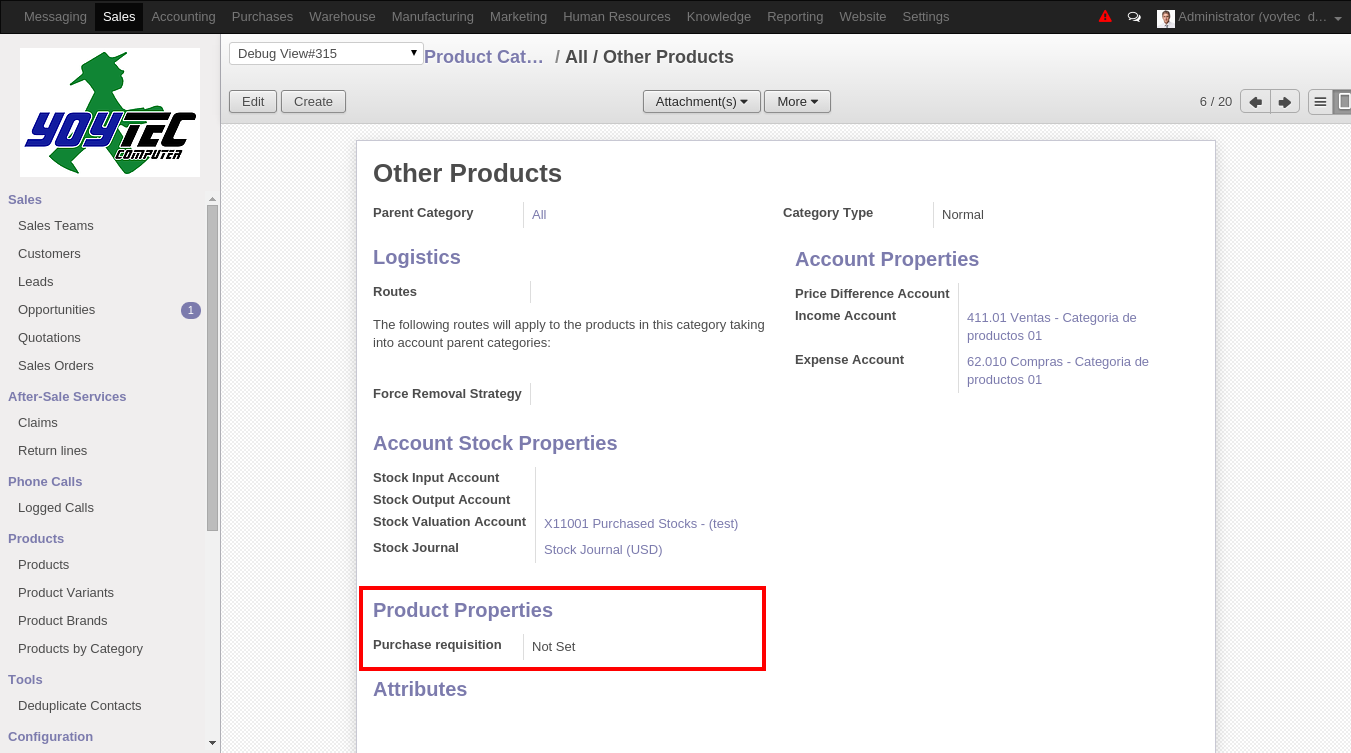
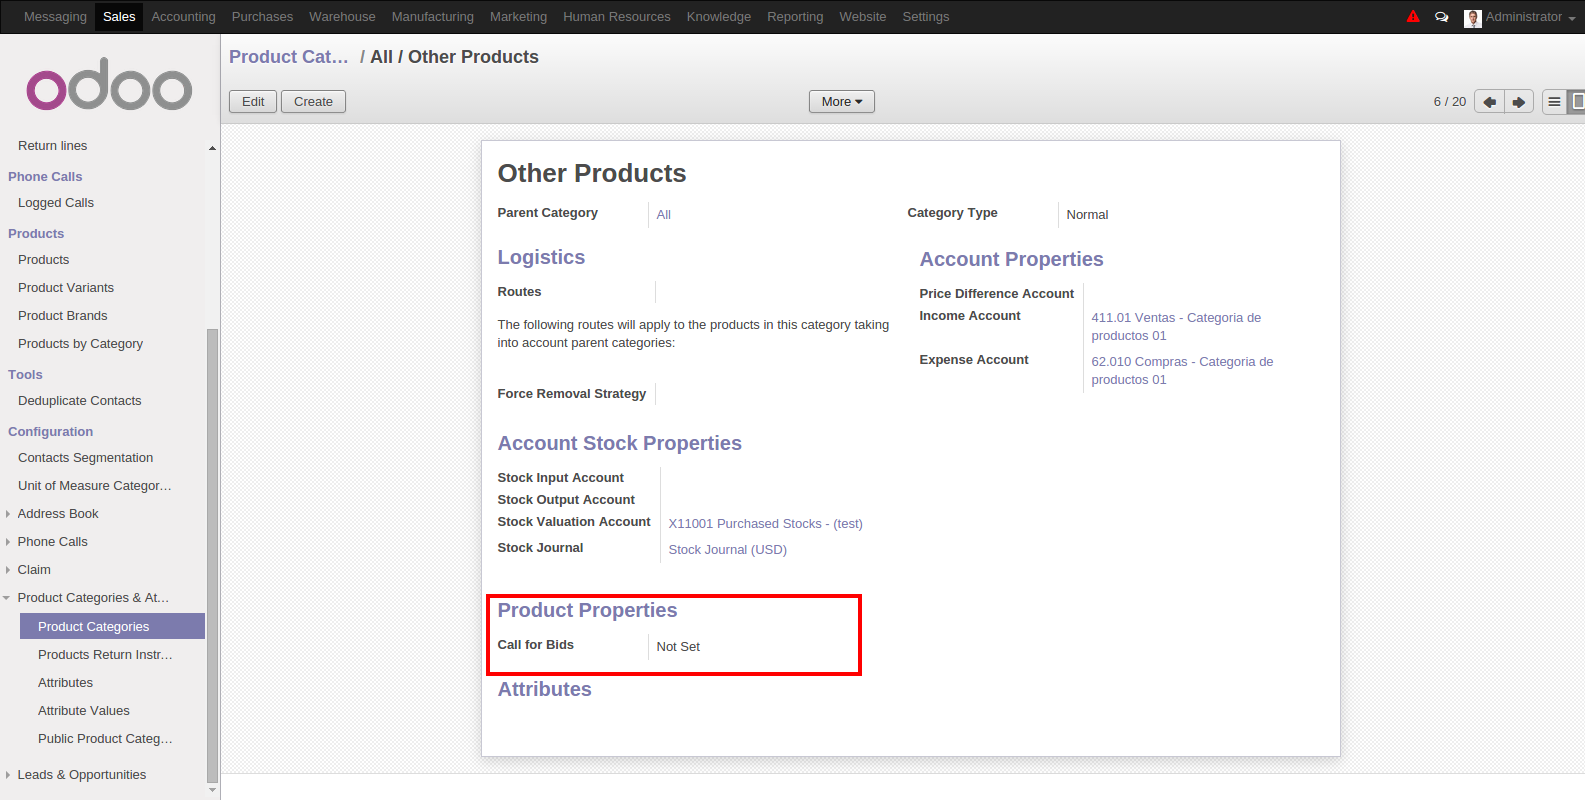
[IMP][product_properties_by_category]

Changed region(s): [[0.0, 0.0, 1.0, 1.0], [0.2487, 0.4887, 0.8394, 0.9774], [0.8083, 0.0, 0.9948, 0.0611]]

diff --git a/product_properties_by_category/tests/test_product_category.py b/product_properties_by_category/tests/test_product_category.py
@@ -33,21 +33,12 @@ class TestProductCategoryProperties(common.SingleTransactionCase):
         self.product = self.browse_ref(
             'product.product_product_35_product_template')
 
-    # Simulate the onchange
-    def check_parents_prch_rqs(self, categ_id):
-        if categ_id:
-            if categ_id.purchase_requisition == '-1':
-                return int(self.check_parents_prch_rqs(categ_id.parent_id))
-            else:
-                return int(categ_id.purchase_requisition)
-        else:
-            return False
-
-    def update_product(self, product, category):
-        result = bool(self.check_parents_prch_rqs(category))
+    def update_product(self, product):
+        result = product.get_purchase_requisition_default()
         product.write({
-            'categ_id': category.id,
-            'purchase_requisition': result, })
+            'categ_id': product.categ_id.id,
+            'purchase_requisition': result[0],
+        })
 
     def test_category_prch_rqst(self):
         """
@@ -56,16 +47,12 @@ class TestProductCategoryProperties(common.SingleTransactionCase):
         """
         # Set "Call for Bids" False to the product.
         self.product.purchase_requisition = False
-        # Category All / Saleable
-        category_b = self.product_category.parent_id
-        # Category All
-        category_a = category_b.parent_id
         # Add a default value "Set True" for "Call for Bids"
         # of product category first in line (Category A).
-        category_a.purchase_requisition = '1'
+        self.product_category.purchase_requisition = '1'
         # Simulate the onchange and check that the field
         # in the product change for False to True.
-        self.update_product(self.product, category_b)
+        self.update_product(self.product)
         self.assertTrue(self.product.purchase_requisition)
 
     def test_no_restriction(self):
@@ -74,12 +61,8 @@ class TestProductCategoryProperties(common.SingleTransactionCase):
         The user can manually change a value inherit form
         the product.category as is needed.
         """
-        category_b = self.product_category.parent_id
-        # Category All
-        category_a = category_b.parent_id
         # Taking the same product in Test 01 change the
-        # "Call for Bids" in product to False and check that
-        # "Call for Bids" in product most be True
+        # "Call for Bids" in product to False
         self.assertTrue(self.product.purchase_requisition)
         # Set "Call for Bids" False to the product.
         self.product.purchase_requisition = False
@@ -88,17 +71,15 @@ class TestProductCategoryProperties(common.SingleTransactionCase):
         # product.category A "call for bids" to check that they are different.
         self.assertNotEqual(
             self.product.purchase_requisition,
-            bool(int(category_a.purchase_requisition)))
+            bool(int(self.product_category.purchase_requisition)))
 
     def test_sub_category_default_value(self):
         """
         Test 03: Check pull the default value form
         the parent category one level above.
         """
-        # Category All / Saleable
-        category_b = self.product_category.parent_id
-        # Category All
-        category_a = category_b.parent_id
+        category_a = self.product_category
+        category_b = category_a.parent_id
         # Remove the default value in Category A
         category_a.purchase_requisition = '-1'
         # Add a default value "Set True" in Category B.
@@ -107,7 +88,7 @@ class TestProductCategoryProperties(common.SingleTransactionCase):
         self.product.purchase_requisition = False
         # Simulate the onchane and check that de product "Call for Bids"
         # change to default describe in Category B.
-        self.update_product(self.product, self.product_category)
+        self.update_product(self.product)
         self.assertTrue(self.product.purchase_requisition)
 
     def test_all_category_default_no_set(self):
@@ -123,9 +104,7 @@ class TestProductCategoryProperties(common.SingleTransactionCase):
         while category.parent_id:
             category.purchase_requisition = '-1'
             category = category.parent_id
-        # Category All
-        category_a = self.product_category.parent_id.parent_id
         # Simulate the onchange and check that the Call for Bids
         # change from True to False.
-        self.update_product(self.product, category_a)
+        self.update_product(self.product)
         self.assertFalse(self.product.purchase_requisition)

diff --git a/product_properties_by_category/model/product_category.py b/product_properties_by_category/model/product_category.py
@@ -39,10 +39,9 @@ class ProductCategory(models.Model):
     purchase_requisition = fields.Selection(
         _get_selection,
         'Call for Bids',
-        type='char',
         default='-1',
-        help="Check this box to generate Call for Bids instead \
-    of generating requests for quotation from procurement.")
+        help="Check this box to generate Call for Bids instead "
+             "of generating requests for quotation from procurement.")
 
 
 class ProductTemplate(models.Model):
@@ -70,10 +69,10 @@ class ProductTemplate(models.Model):
         Add return the default value for the "Call for Bids" boolean field.
         """
         cr_categ_id = self.categ_id
-        default_value = -1
-        while default_value != -1 or not cr_categ_id.parent_id:
+        default_value = '-1'
+        while cr_categ_id.parent_id:
             if cr_categ_id.purchase_requisition == '-1':
                 cr_categ_id = cr_categ_id.parent_id
             else:
                 default_value = cr_categ_id.purchase_requisition
-        return default_value != -1 and bool(default_value) or False
+        return default_value != '-1' and bool(int(default_value)) or False

diff --git a/product_properties_by_category/model/__init__.py b/product_properties_by_category/model/__init__.py
@@ -20,4 +20,4 @@
 #    along with this program.  If not, see <http://www.gnu.org/licenses/>.
 ###############################################################################
 
-from . import pruduct_category
+from . import product_category
